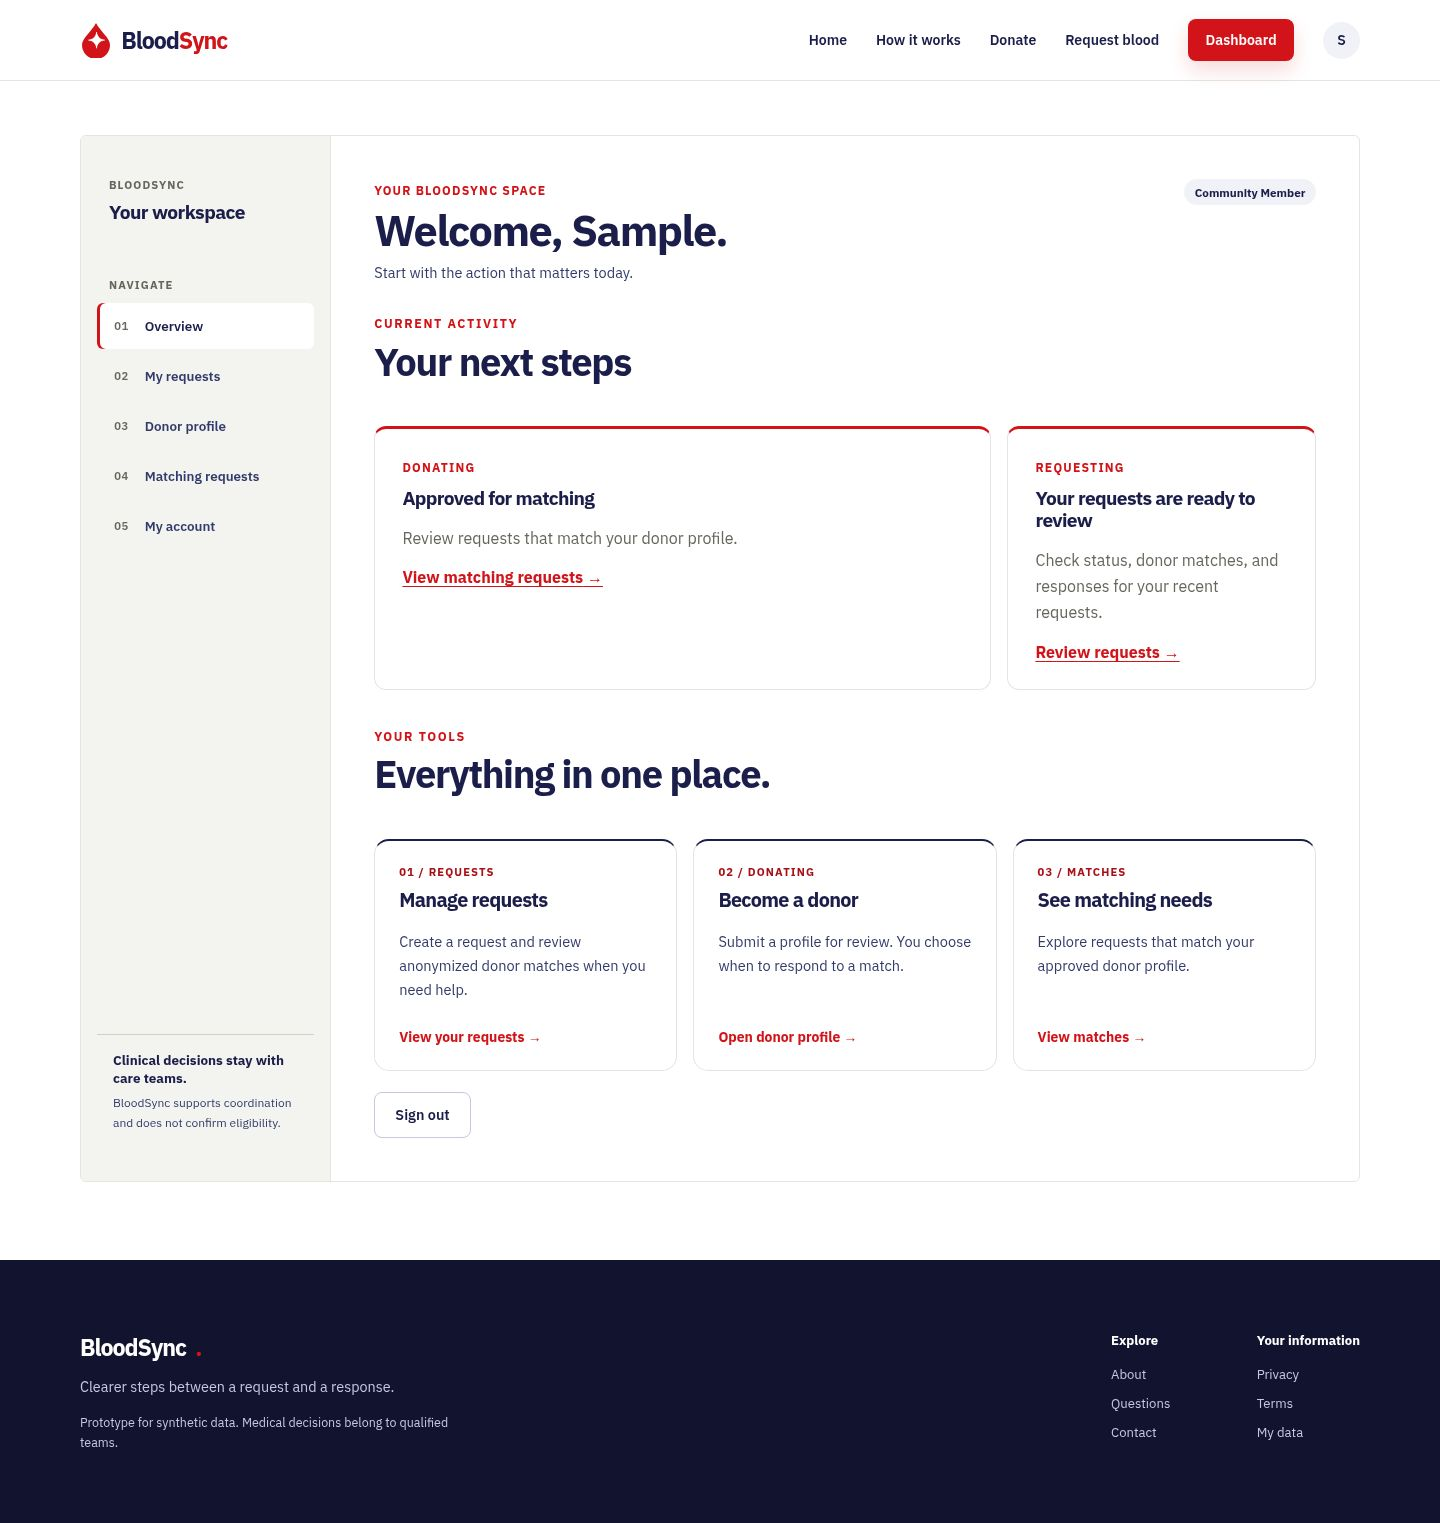
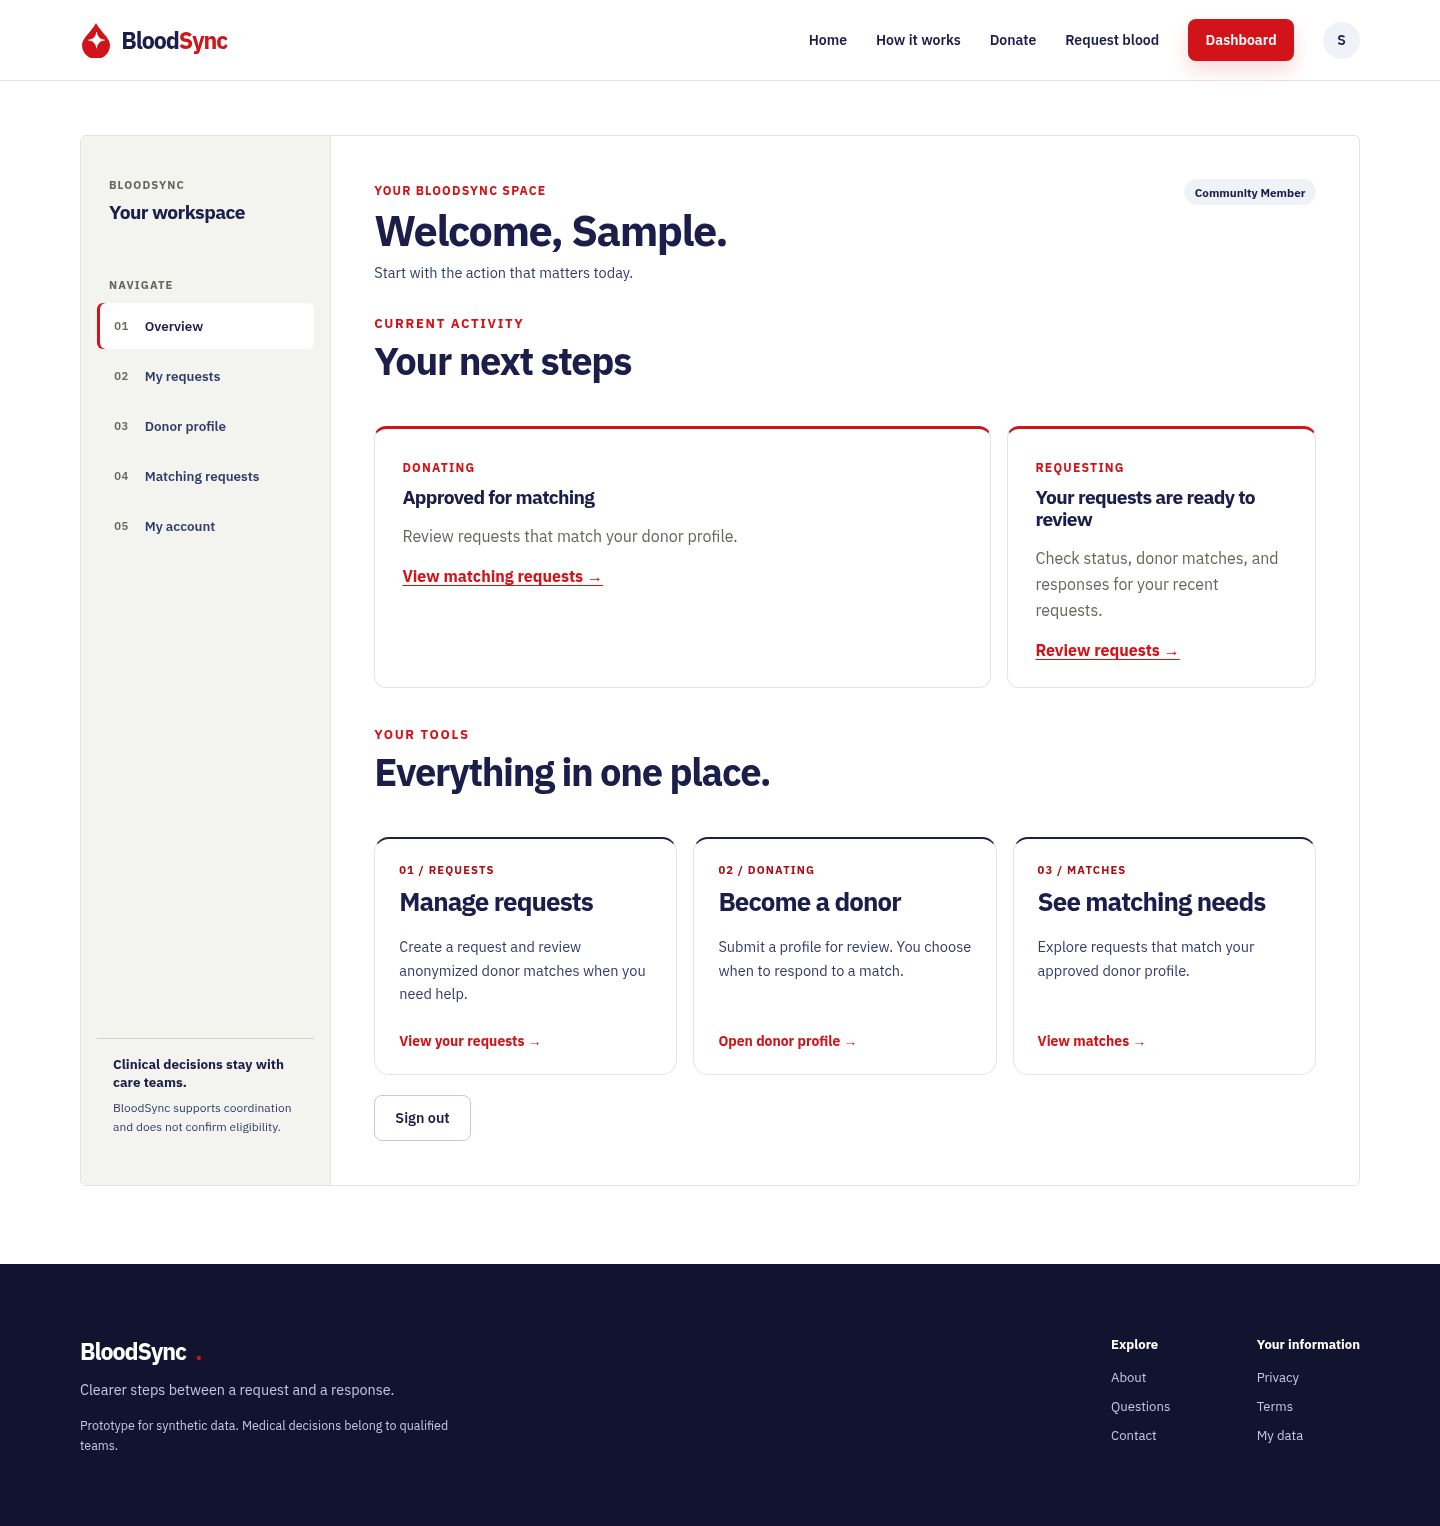
Refine auth typography and responsive layout

diff --git a/apps/web/app/style.css b/apps/web/app/style.css
@@ -55,6 +55,12 @@
   --success-900: #123b29;
   --success-950: #0b2a1d;
   --font-display: Georgia, 'Times New Roman', serif;
+  /* Major heading steps follow a 1:1.618 modular scale from the 1rem body size. */
+  --type-body: 1rem;
+  --type-heading: 1.618rem;
+  --type-title: 2.618rem;
+  --type-display: 4.236rem;
+  --type-support: 0.875rem;
   --space-1: 0.25rem;
   --space-2: 0.5rem;
   --space-3: 0.75rem;
@@ -297,20 +303,20 @@ h3 {
   color: var(--navy);
 }
 h1 {
-  font-size: clamp(2.3rem, 5vw, 4.55rem);
+  font-size: clamp(var(--type-title), 5vw, var(--type-display));
   margin: 0.45rem 0 1.1rem;
 }
 h2 {
-  font-size: clamp(1.55rem, 2.65vw, 2.55rem);
+  font-size: clamp(var(--type-heading), 2.65vw, var(--type-title));
   margin: 0.45rem 0 1rem;
 }
 h3 {
-  font-size: 1.24rem;
+  font-size: var(--type-heading);
   margin: 0.35rem 0 0.65rem;
 }
 p {
-  font-size: 1rem;
-  line-height: 1.65;
+  font-size: var(--type-body);
+  line-height: 1.618;
   color: var(--color-ink-subtle);
 }
 .eyebrow {
@@ -318,7 +324,7 @@ p {
   align-items: center;
   gap: 0.55rem;
   color: var(--red);
-  font-size: 0.78rem;
+  font-size: 0.8125rem;
   font-weight: 700;
   letter-spacing: 0.13em;
   text-transform: uppercase;
@@ -1138,10 +1144,10 @@ button:disabled {
   box-shadow: var(--shadow);
 }
 .form-page h1 {
-  font-size: clamp(2rem, 3.2vw, 3rem);
+  font-size: var(--type-title);
 }
 .form-page p {
-  font-size: 0.9rem;
+  font-size: var(--type-support);
 }
 .form-page form button {
   width: 100%;
@@ -1218,7 +1224,7 @@ button:disabled {
   color: #fff;
   font-family: var(--font-display);
   font-weight: 400;
-  font-size: clamp(2rem, 2.7vw, 2.8rem);
+  font-size: clamp(var(--type-heading), 2.7vw, var(--type-title));
 }
 .auth-aside p {
   font-size: 0.94rem;
@@ -1581,7 +1587,7 @@ button.toast-close {
     grid-template-columns: minmax(0, 1fr);
   }
 }
-@media (max-width: 760px) {
+@media (max-width: 900px) {
   .site-frame {
     width: 100%;
     margin: 0;
@@ -1693,6 +1699,12 @@ button.toast-close {
   }
   .auth-layout {
     grid-template-columns: 1fr;
+    min-height: 0;
+  }
+  .auth-layout .form-page {
+    width: min(100% - 48px, 590px);
+    margin: 0 auto;
+    padding: 2rem 0;
   }
   .auth-aside {
     min-height: 0;
@@ -1703,7 +1715,19 @@ button.toast-close {
   }
   .auth-aside-content {
     max-width: 35rem;
-    padding-top: 1.5rem;
+    padding-top: 0;
+    border-top: 0;
+  }
+  .auth-aside h2 {
+    font-size: var(--type-heading);
+    margin: 0.35rem 0 0.5rem;
+  }
+  .auth-aside p {
+    margin: 0;
+    font-size: var(--type-support);
+  }
+  .auth-principles {
+    display: none;
   }
   .workspace {
     grid-template-columns: minmax(0, 1fr);
@@ -1804,7 +1828,7 @@ button.toast-close {
 }
 .signup-heading h1 {
   margin: 0.5rem 0;
-  font-size: clamp(2rem, 4vw, 3.3rem);
+  font-size: clamp(var(--type-title), 4vw, 3.25rem);
   color: var(--navy);
 }
 .signup-heading p {
@@ -1820,7 +1844,7 @@ button.toast-close {
 }
 .signup-form h2 {
   margin: 0.5rem 0;
-  font-size: clamp(1.6rem, 2.5vw, 2.3rem);
+  font-size: clamp(var(--type-heading), 2.5vw, 2.25rem);
 }
 .signup-form > p {
   color: var(--muted);
@@ -1865,7 +1889,7 @@ button.toast-close {
 .signup-hint,
 .signup-form .field-note {
   color: var(--muted);
-  font-size: 0.78rem;
+  font-size: var(--type-support);
   font-weight: 400;
 }
 .signup-form .signup-hint {
@@ -1878,7 +1902,7 @@ button.toast-close {
 .signup-password-group > label {
   font-weight: 600;
   color: var(--navy);
-  font-size: 0.86rem;
+  font-size: var(--type-support);
 }
 .password-field {
   display: flex;
@@ -1914,7 +1938,7 @@ button.toast-close {
   margin-top: 0.1rem;
   accent-color: var(--red);
 }
-@media (max-width: 760px) {
+@media (max-width: 900px) {
   .signup-shell {
     margin: 1rem auto 2rem;
   }

diff --git a/docs/DESIGN_SYSTEM.md b/docs/DESIGN_SYSTEM.md
@@ -32,7 +32,9 @@ Semantic aliases include `--color-canvas`, `--color-surface`, `--color-ink`, `--
 
 IBM Plex Sans is self-hosted under its bundled OFL license for interface text. Boska and Switzer were considered as visual references; this version keeps the existing licensed font asset and uses the system Georgia serif sparingly for expressive public headings. This avoids third-party font requests and unverified redistribution of new font assets. The stack falls back to Arial for interface text and Times New Roman for display text.
 
-Spacing tokens follow an 8-point rhythm, with 4px and 12px available for small adjustments: `--space-1` through `--space-20`. Shared radii are 6px and 12px. Type uses a clear hierarchy of page title, section heading, card heading, body text, helper text, and uppercase eyebrow. Headings use short lines and responsive sizes; body copy retains generous line height.
+Major type steps follow a golden-ratio scale from a 16px body: 1rem body, 1.618rem heading, 2.618rem title, and 4.236rem display. These are maximum roles, with responsive clamps where needed so headings still fit narrow screens. Helper text remains at least 0.875rem in the authentication forms, and body copy uses a 1.618 line height. This scale sets hierarchy without shrinking essential instructions.
+
+Spacing tokens follow an 8-point rhythm, with 4px and 12px available for small adjustments: `--space-1` through `--space-20`. Shared radii are 6px and 12px. Headings use short lines and responsive sizes.
 
 ## Components and behavior
 
@@ -44,4 +46,4 @@ Spacing tokens follow an 8-point rhythm, with 4px and 12px available for small a
 - The footer keeps prototype and medical boundaries visible, with separate exploration and information links.
 - Motion is brief and optional; reduced-motion preferences disable animation and smooth scrolling.
 
-The main content grid is capped at 1280px. Desktop landing sections use an asymmetric two-column composition; authenticated pages prioritize task content beside a narrow navigation rail. At 760px and below, these sections stack without changing reading order.
+The main content grid is capped at 1280px. Desktop landing sections use an asymmetric two-column composition; authenticated pages prioritize task content beside a narrow navigation rail. At 900px and below, navigation and authentication sections stack without changing reading order. The authentication trust panel becomes a short supporting note below the form at these widths.

diff --git a/docs/redesign/REVIEW.md b/docs/redesign/REVIEW.md
@@ -22,6 +22,8 @@ The public route now starts with a clear request action and an alternative donor
 
 The workspace uses a narrow numbered navigation rail and a task-first content area. Donor status uses explicit wording such as **Approved for matching**; it does not imply clinical eligibility. Empty request and matching states offer one useful next action. The admin queue keeps medical review context beside the pending count.
 
+The authentication layout now stacks through 900px, with a compact trust note below the form. Sign-up fields retain full width on phones, and navigation collapses before its links crowd the header. Major type sizes follow a 1:1.618 scale from 16px body text, with responsive limits for narrow screens.
+
 Authentication, API routes, consent handling, matching rules, and role checks were preserved. After sign-in, a user returns only to an allowlisted internal task path. All visual review data is synthetic and is mocked in the browser audit script.
 
 ## Visual references
@@ -31,6 +33,7 @@ Authentication, API routes, consent handling, matching rules, and role checks we
 | Landing, desktop      | [Before](screenshots/before-home-1440.jpg)       | [After](screenshots/after-home-1440.jpg)       |
 | Landing, mobile       | [Before](screenshots/before-home-375.jpg)        | [After](screenshots/after-home-375.jpg)        |
 | Sign-up, mobile       | [Before](screenshots/before-signup-375.jpg)      | [After](screenshots/after-signup-375.jpg)      |
+| Sign-in, mobile       | —                                                | [After](screenshots/after-signin-375.jpg)      |
 | Dashboard, desktop    | [Before](screenshots/before-dashboard-1440.jpg)  | [After](screenshots/after-dashboard-1440.jpg)  |
 | Request form, mobile  | [Before](screenshots/before-request-new-375.jpg) | [After](screenshots/after-request-new-375.jpg) |
 | Admin review, desktop | [Before](screenshots/before-admin-1440.jpg)      | [After](screenshots/after-admin-1440.jpg)      |
